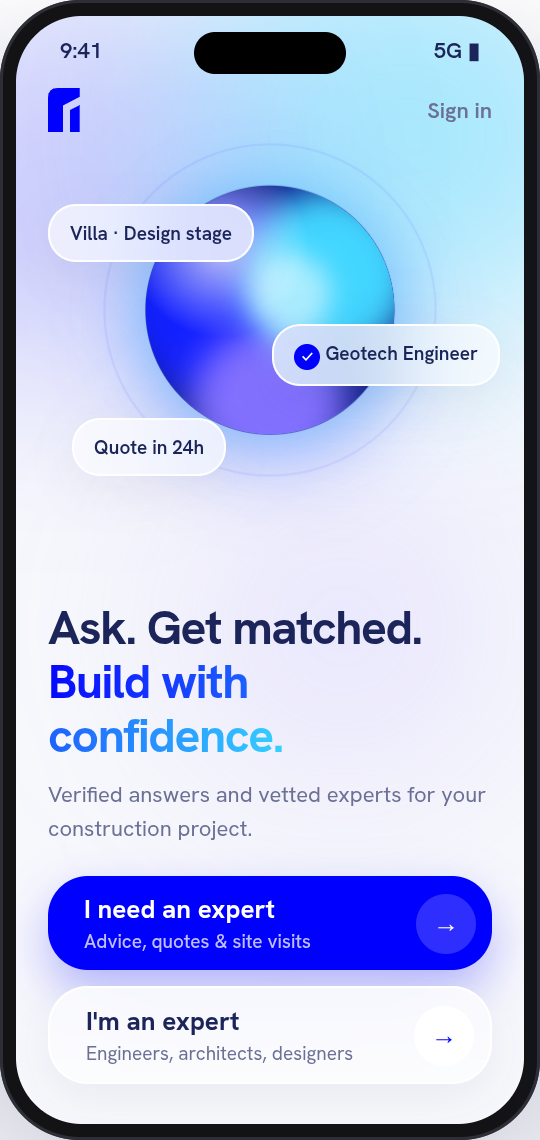
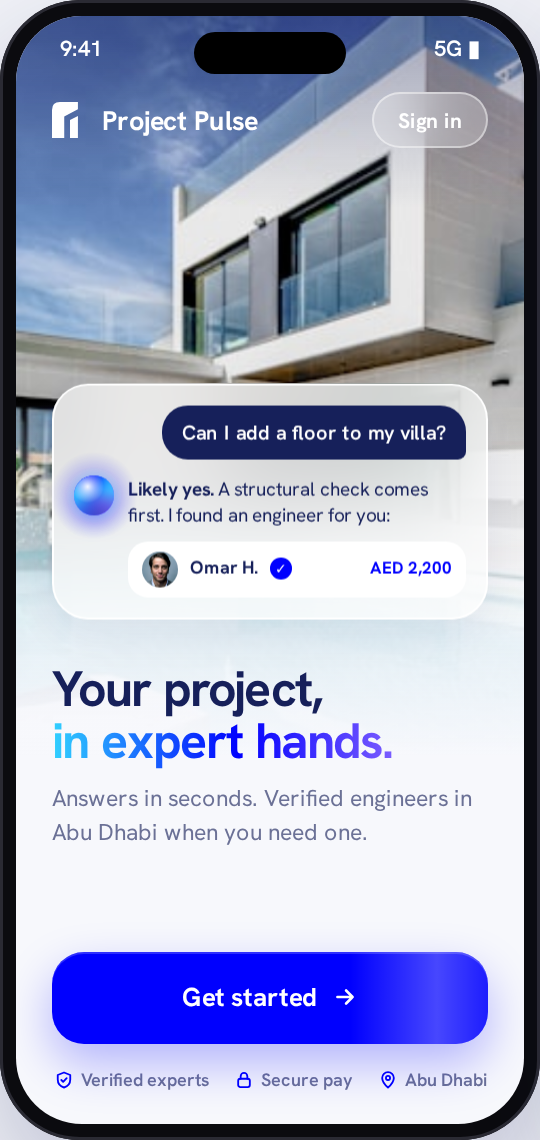
feat(mobile): Welcome A2 cinematic photo and the photo-card role screen (batch 5)
Ken Burns hero, frosted Pulse exchange (question, round orb, typed answer, engineer row), Get started with a
light sweep and trust ticks; Get started opens /onboarding/role (Client / Expert photo cards, lift + blue ring,
then sign up with the chosen role). Brand motion presets only. New 02-welcome-role and 02b-role references.

diff --git a/mobile/src/app/onboarding/welcome.tsx b/mobile/src/app/onboarding/welcome.tsx
@@ -1,53 +1,192 @@
-import { Pressable, View } from 'react-native';
+import { useEffect, useState } from 'react';
+import { Platform, Pressable, StyleSheet, View, useWindowDimensions } from 'react-native';
 import { router } from 'expo-router';
-import { Screen } from '@/ui/Screen';
+import { Image } from 'expo-image';
+import { BlurView } from 'expo-blur';
+import { LinearGradient } from 'expo-linear-gradient';
+import { StatusBar } from 'expo-status-bar';
+import { useSafeAreaInsets } from 'react-native-safe-area-context';
+import Animated, { Easing, cancelAnimation, useAnimatedStyle, useSharedValue, withDelay, withRepeat, withSequence, withTiming } from 'react-native-reanimated';
+import Svg, { Circle, Path, Rect } from 'react-native-svg';
 import { T } from '@/ui/T';
-import { Glass } from '@/ui/Glass';
 import { LogoMark } from '@/ui/LogoMark';
-import { Orb, Halo } from '@/fx/Orb';
+import { RoundOrb } from '@/fx/RoundOrb';
 import { GradientText } from '@/fx/GradientText';
+import { PHOTOS } from '@/theme/photos';
 import { s } from '@/theme/scale';
 import { shadow } from '@/theme/shadow';
 import { C } from '@/theme/tokens';
-import { useDemo } from '@/store/demo';
+import { EASE_IN_OUT, PRESS_SCALE, enterUp } from '@/theme/motion';
 
-const chip = (label: string, pos: object, ver = false) => (
-  <Glass r={14} style={[{ position: 'absolute', paddingVertical: s(7), paddingHorizontal: s(10), flexDirection: 'row', alignItems: 'center', gap: s(4) }, pos]}>
-    {ver && <View style={{ width: s(13), height: s(13), borderRadius: s(7), backgroundColor: C.blue, alignItems: 'center', justifyContent: 'center' }}><T size={8} c="#fff">✓</T></View>}
-    <T size={9.5} w={600}>{label}</T>
-  </Glass>
-);
+// Batch 5 A2 "Cinematic photo" (design/mockups/batch5-first-impression.html, A2 · Welcome).
+const ANSWER_BOLD = 'Likely yes.';
+const ANSWER = `${ANSWER_BOLD} A structural check comes first. I found an engineer for you:`;
+const TYPE_START = 600; // ms: the answer starts typing once the question bubble has landed
+const TYPE_MS = 14; // per character (~1.1s for the answer)
+const ROW_AT = TYPE_START + ANSWER.length * TYPE_MS + 100; // engineer row slides up after the answer
+const android = Platform.OS === 'android';
+
+/** Mockup `.up` / `.d1` / `.d2`: the headline, sub-line and button glide up in sequence (brand enterUp, 100ms stagger). */
+function Up({ d = 0, style, children }: { d?: number; style?: any; children: React.ReactNode }) {
+  return <Animated.View entering={enterUp(d, 100)} style={style}>{children}</Animated.View>;
+}
+
+/** ✦ "The photo slowly pushes in (a Ken Burns move over 14s)": mockup `.phh .im`, inset -6%, scale 1 -> 1.08 and
+ *  translate(-2%, 1%), ease-in-out, alternate. Fades into the app background through the `.phh:after` gradient. */
+function Hero() {
+  const { width } = useWindowDimensions();
+  const H = s(370);
+  const kb = useSharedValue(0);
+  useEffect(() => {
+    kb.value = withRepeat(withTiming(1, { duration: 14000, easing: EASE_IN_OUT }), -1, true);
+    return () => cancelAnimation(kb);
+  }, []);
+  const iw = width * 1.12, ih = H * 1.12;
+  const st = useAnimatedStyle(() => ({ transform: [{ translateX: -0.02 * iw * kb.value }, { translateY: 0.01 * ih * kb.value }, { scale: 1 + 0.08 * kb.value }] }));
+  return (
+    <View pointerEvents="none" style={{ position: 'absolute', left: 0, right: 0, top: 0, height: H, overflow: 'hidden' }}>
+      <Animated.View style={[{ position: 'absolute', left: -width * 0.06, top: -H * 0.06, width: iw, height: ih }, st]}>
+        <Image source={PHOTOS.port1} contentFit="cover" contentPosition={{ left: '58%', top: '50%' }} style={{ flex: 1 }} />
+      </Animated.View>
+      <LinearGradient colors={['rgba(22,32,90,0.35)', 'rgba(22,32,90,0)', 'rgba(247,248,252,0)', 'rgba(247,248,252,0.85)', C.bg]}
+        locations={[0, 0.26, 0.52, 0.8, 1]} style={StyleSheet.absoluteFill} />
+    </View>
+  );
+}
+
+/** Mockup `.pill-g`: a frosted white pill on the photo. */
+function GlassPill({ children, style }: { children: React.ReactNode; style?: any }) {
+  return (
+    <View style={[{ borderRadius: s(16), overflow: 'hidden', borderWidth: 1, borderColor: 'rgba(255,255,255,0.45)', backgroundColor: android ? 'rgba(255,255,255,0.3)' : 'rgba(255,255,255,0.22)' }, style]}>
+      {!android && <BlurView intensity={20} tint="light" style={StyleSheet.absoluteFill} />}
+      {children}
+    </View>
+  );
+}
+
+/** Mockup `.fl1`: a gentle 5px float on a 6s ease-in-out loop. */
+function useFloat() {
+  const f = useSharedValue(0);
+  useEffect(() => {
+    f.value = withRepeat(withSequence(withTiming(1, { duration: 3000, easing: Easing.inOut(Easing.ease) }), withTiming(0, { duration: 3000, easing: Easing.inOut(Easing.ease) })), -1);
+    return () => cancelAnimation(f);
+  }, []);
+  return useAnimatedStyle(() => ({ transform: [{ translateY: -s(5) * f.value }] }));
+}
+
+/** The frosted Pulse exchange (mockup `.qa.glass.fl1`). ✦ The question bubble appears, the orb spins, the answer types in,
+ *  then the engineer row slides up (brand enterUp). Everything has settled by ~2.3s. */
+function PulseCard() {
+  const float = useFloat();
+  const [n, setN] = useState(0);
+  useEffect(() => {
+    let id: ReturnType<typeof setInterval> | undefined;
+    const t = setTimeout(() => { id = setInterval(() => setN((x) => { if (x >= ANSWER.length) { clearInterval(id); return x; } return x + 1; }), TYPE_MS); }, TYPE_START);
+    return () => { clearTimeout(t); if (id) clearInterval(id); };
+  }, []);
+  const typed = ANSWER.slice(0, n);
+  const answer = (full: boolean) => {
+    const t = full ? ANSWER : typed;
+    return <><T size={9.5} w={700} lh={1.4}>{t.slice(0, ANSWER_BOLD.length)}</T>{t.slice(ANSWER_BOLD.length)}</>;
+  };
+  return (
+    <Animated.View style={[{ marginTop: s(118), borderRadius: s(18), ...shadow(C.navy, 0.07, s(12), s(6)) }, float]}>
+      <View style={{ borderRadius: s(18), overflow: 'hidden', borderWidth: 1, borderColor: 'rgba(255,255,255,0.95)', backgroundColor: android ? 'rgba(250,251,255,0.9)' : 'rgba(255,255,255,0.72)', padding: s(10) }}>
+        {!android && <BlurView intensity={30} tint="light" style={StyleSheet.absoluteFill} />}
+        <Animated.View entering={enterUp(1, 250)} style={[{ alignSelf: 'flex-end', maxWidth: '88%', backgroundColor: C.navy, paddingVertical: s(7), paddingHorizontal: s(10),
+          borderTopLeftRadius: s(13), borderTopRightRadius: s(13), borderBottomRightRadius: s(4), borderBottomLeftRadius: s(13) }]}>
+          <T size={10} w={600} c="#fff">Can I add a floor to my villa?</T>
+        </Animated.View>
+        <View style={{ flexDirection: 'row', gap: s(7), marginTop: s(8), alignItems: 'flex-start' }}>
+          <RoundOrb size={20} glow />
+          <View style={{ flex: 1 }}>
+            <View>
+              {/* the full answer lays out the card; the typed copy is drawn over it */}
+              <T size={9.5} lh={1.4} style={{ opacity: 0 }} accessibilityElementsHidden importantForAccessibility="no-hide-descendants">{answer(true)}</T>
+              <T size={9.5} lh={1.4} style={{ position: 'absolute', left: 0, top: 0, right: 0 }} accessibilityLabel={ANSWER}>{answer(false)}</T>
+            </View>
+            <Animated.View entering={enterUp(1, ROW_AT)} style={[{ flexDirection: 'row', alignItems: 'center', gap: s(6), marginTop: s(6), paddingVertical: s(5), paddingHorizontal: s(7), borderRadius: s(10), backgroundColor: '#fff' }]}>
+              <Image source={PHOTOS.omar} contentFit="cover" style={{ width: s(18), height: s(18), borderRadius: s(9) }} />
+              <T size={9} w={700}>Omar H.</T>
+              <View style={{ width: s(11), height: s(11), borderRadius: s(5.5), backgroundColor: C.blue, alignItems: 'center', justifyContent: 'center' }}>
+                <Svg width={s(7)} height={s(7)} viewBox="0 0 24 24"><Path d="M5 12.5l4.5 4.5L19 7.5" fill="none" stroke="#fff" strokeWidth={3.6} strokeLinecap="round" strokeLinejoin="round" /></Svg>
+              </View>
+              <T size={8.5} w={700} c={C.blue} style={{ marginLeft: 'auto' }}>AED 2,200</T>
+            </Animated.View>
+          </View>
+        </View>
+      </View>
+    </Animated.View>
+  );
+}
+
+/** Mockup `.btn2`: one Pulse Blue button with a soft light sweeping across it every 4s (`shimb`). */
+export function GetStarted({ onPress }: { onPress: () => void }) {
+  const [w, setW] = useState(0);
+  const sw = useSharedValue(0);
+  useEffect(() => {
+    sw.value = withDelay(800, withRepeat(withSequence(withTiming(1, { duration: 2000, easing: EASE_IN_OUT }), withTiming(1, { duration: 2000 }), withTiming(0, { duration: 0 })), -1));
+    return () => cancelAnimation(sw);
+  }, []);
+  const ss = useAnimatedStyle(() => ({ transform: [{ translateX: w * (-0.5 + 1.8 * sw.value) }] }));
+  return (
+    <Pressable onPress={onPress} accessibilityRole="button" onLayout={(e) => setW(e.nativeEvent.layout.width)}
+      style={({ pressed }) => [{ height: s(46), borderRadius: s(16), backgroundColor: C.blue, ...shadow(C.blue, 0.28, s(12), s(10)), transform: [{ scale: pressed ? PRESS_SCALE : 1 }] }]}>
+      <View style={{ flex: 1, borderRadius: s(16), overflow: 'hidden', flexDirection: 'row', alignItems: 'center', justifyContent: 'center', gap: s(8) }}>
+        <View style={{ position: 'absolute', left: 0, right: 0, top: 0, height: 1, backgroundColor: 'rgba(255,255,255,0.18)' }} />
+        <Animated.View pointerEvents="none" style={[{ position: 'absolute', left: 0, top: 0, bottom: 0, width: w * 0.4 }, ss]}>
+          <LinearGradient colors={['rgba(255,255,255,0)', 'rgba(255,255,255,0.28)', 'rgba(255,255,255,0)']} start={{ x: 0, y: 0 }} end={{ x: 1, y: 0 }} style={{ flex: 1 }} />
+        </Animated.View>
+        <T size={13} w={700} ls={-0.005} c="#fff">Get started</T>
+        <Svg width={s(13)} height={s(13)} viewBox="0 0 24 24"><Path d="M5 12h14M13 6l6 6-6 6" fill="none" stroke="#fff" strokeWidth={2.4} strokeLinecap="round" strokeLinejoin="round" /></Svg>
+      </View>
+    </Pressable>
+  );
+}
+
+const tick = { fill: 'none', stroke: C.blue, strokeWidth: 2.2, strokeLinecap: 'round' as const, strokeLinejoin: 'round' as const };
+const TICKS: [string, React.ReactNode][] = [
+  ['Verified experts', <><Path {...tick} d="M12 3l7.5 3v5.5c0 4.6-3.2 8.3-7.5 9.5-4.3-1.2-7.5-4.9-7.5-9.5V6z" /><Path {...tick} d="M8.8 12l2.2 2.2 4.2-4.4" /></>],
+  ['Secure pay', <><Rect {...tick} x={5} y={10.5} width={14} height={10} rx={2.5} /><Path {...tick} d="M8 10.5V7.5a4 4 0 0 1 8 0v3" /></>],
+  ['Abu Dhabi', <><Path {...tick} d="M12 21s-7-6.2-7-11.5a7 7 0 0 1 14 0C19 14.8 12 21 12 21z" /><Circle {...tick} cx={12} cy={9.5} r={2.5} /></>],
+];
 
 export default function Welcome() {
-  const go = (role: 'client' | 'expert') => { useDemo.getState().setRole(role); router.push('/onboarding/signup'); };
+  const insets = useSafeAreaInsets();
   return (
-    <Screen bg="aurora3" px={16}>
-      <View style={{ flexDirection: 'row', justifyContent: 'space-between', alignItems: 'center', paddingTop: s(6) }}>
-        <LogoMark size={22} />
-        <Pressable onPress={() => router.push('/onboarding/signup?mode=signin')}><T size={11} w={600} c={C.mute}>Sign in</T></Pressable>
+    <View style={{ flex: 1, backgroundColor: C.bg }}>
+      <StatusBar style="light" />
+      <Hero />
+      <View style={{ flex: 1, paddingTop: Math.max(insets.top, s(30)), paddingHorizontal: s(18) }}>
+        <View style={{ flexDirection: 'row', alignItems: 'center', justifyContent: 'space-between', paddingTop: s(8) }}>
+          <View style={{ flexDirection: 'row', alignItems: 'center', gap: s(7) }}>
+            <LogoMark size={18} color="#fff" />
+            <T size={13.5} w={700} ls={-0.02} c="#fff">Project Pulse</T>
+          </View>
+          <Pressable onPress={() => router.push('/onboarding/signup?mode=signin')} hitSlop={8}>
+            <GlassPill style={{ paddingVertical: s(6), paddingHorizontal: s(12) }}><T size={10.5} w={700} c="#fff">Sign in</T></GlassPill>
+          </Pressable>
+        </View>
+        <PulseCard />
+        <Up style={{ marginTop: s(22) }}>
+          <T size={25} w={700} ls={-0.035} lh={1.05}>Your project,</T>
+          <GradientText size={25} w={700} ls={-0.035} lh={1.05}>in expert hands.</GradientText>
+        </Up>
+        <Up d={1} style={{ marginTop: s(7) }}>
+          <T size={11.5} c={C.mute} lh={1.45}>Answers in seconds. Verified engineers in Abu Dhabi when you need one.</T>
+        </Up>
+        <Up d={2} style={{ marginTop: 'auto', marginBottom: Math.max(s(16), insets.bottom) }}>
+          <GetStarted onPress={() => router.push('/onboarding/role')} />
+          <View style={{ flexDirection: 'row', justifyContent: 'center', gap: s(12), marginTop: s(12) }}>
+            {TICKS.map(([label, icon]) => (
+              <View key={label} style={{ flexDirection: 'row', alignItems: 'center', gap: s(4) }}>
+                <Svg width={s(10)} height={s(10)} viewBox="0 0 24 24">{icon}</Svg>
+                <T size={9} w={600} c={C.mute}>{label}</T>
+              </View>
+            ))}
+          </View>
+        </Up>
       </View>
-      <View style={{ alignItems: 'center', marginTop: s(30), height: s(118) }}>
-        <View><Halo size={118} /><Orb size={118} variant="sphere" /></View>
-        {chip('Villa · Design stage', { left: 0, top: s(6) })}
-        {chip('Geotech Engineer', { right: -s(4), top: s(66) }, true)}
-        {chip('Quote in 24h', { left: s(12), bottom: -s(24) })}
-      </View>
-      <View style={{ marginTop: 'auto', paddingBottom: s(20) }}>
-        <T size={24} w={700} ls={-0.03} lh={1.12}>Ask. Get matched.</T>
-        <GradientText size={24} w={700} ls={-0.03} lh={1.12} colors={[C.blue, C.cyan]}>Build with confidence.</GradientText>
-        <T size={11} c={C.mute} lh={1.5} style={{ marginTop: s(7) }}>Verified answers and vetted experts for your construction project.</T>
-        <Pressable onPress={() => go('client')} style={{ marginTop: s(16), backgroundColor: C.blue, borderRadius: s(20), paddingVertical: s(8), paddingLeft: s(18), paddingRight: s(8),
-          flexDirection: 'row', alignItems: 'center', justifyContent: 'space-between', ...shadow(C.blue, 0.28, s(12), s(10)) }}>
-          <View><T size={13} w={700} c="#fff">I need an expert</T><T size={9.5} w={500} c="rgba(255,255,255,0.75)" style={{ marginTop: 1 }}>Advice, quotes & site visits</T></View>
-          <View style={{ width: s(30), height: s(30), borderRadius: s(15), backgroundColor: 'rgba(255,255,255,0.18)', alignItems: 'center', justifyContent: 'center' }}><T size={13} c="#fff">→</T></View>
-        </Pressable>
-        <Pressable onPress={() => go('expert')}>
-          <Glass r={20} style={{ marginTop: s(8), paddingVertical: s(8), paddingLeft: s(18), paddingRight: s(8), flexDirection: 'row', alignItems: 'center', justifyContent: 'space-between' }}>
-            <View><T size={13} w={700}>I'm an expert</T><T size={9.5} c={C.mute} style={{ marginTop: 1 }}>Engineers, architects, designers</T></View>
-            <View style={{ width: s(30), height: s(30), borderRadius: s(15), backgroundColor: '#fff', alignItems: 'center', justifyContent: 'center' }}><T size={13} c={C.blue}>→</T></View>
-          </Glass>
-        </Pressable>
-      </View>
-    </Screen>
+    </View>
   );
 }

diff --git a/mobile/src/app/onboarding/role.tsx b/mobile/src/app/onboarding/role.tsx
@@ -1,0 +1,106 @@
+import { useEffect, useRef, useState } from 'react';
+import { Platform, Pressable, StyleSheet, View } from 'react-native';
+import { router, useLocalSearchParams } from 'expo-router';
+import { Image } from 'expo-image';
+import { BlurView } from 'expo-blur';
+import { LinearGradient } from 'expo-linear-gradient';
+import * as Haptics from 'expo-haptics';
+import Animated, { useAnimatedStyle, useSharedValue, withSpring, withTiming } from 'react-native-reanimated';
+import Svg, { Path } from 'react-native-svg';
+import { Screen } from '@/ui/Screen';
+import { Glass } from '@/ui/Glass';
+import { T } from '@/ui/T';
+import { PHOTOS, PhotoKey } from '@/theme/photos';
+import { s } from '@/theme/scale';
+import { shadow } from '@/theme/shadow';
+import { C } from '@/theme/tokens';
+import { DUR, EASE_OUT, SPRING, enterUp } from '@/theme/motion';
+import { useDemo } from '@/store/demo';
+
+// Batch 5 A2 · after Get started (role): two large photo cards (mockup `.pcard`).
+type Role = 'client' | 'expert';
+const CARDS: { role: Role; tag: string; title: string; sub: string; photo: PhotoKey; h: number }[] = [
+  { role: 'client', tag: 'Client', title: "I'm building", sub: 'Villa, shop, tower or renovation', photo: 'port2', h: 166 },
+  { role: 'expert', tag: 'Expert', title: "I'm an engineer", sub: 'Consultants, architects, designers', photo: 'drawings', h: 150 },
+];
+const android = Platform.OS === 'android';
+const LEAVE_MS = 480;
+
+const Arrow = ({ color }: { color: string }) => (
+  <Svg width={s(12)} height={s(12)} viewBox="0 0 24 24"><Path d="M5 12h14M13 6l6 6-6 6" fill="none" stroke={color} strokeWidth={2.4} strokeLinecap="round" strokeLinejoin="round" /></Svg>
+);
+
+function Card({ c, sel, lifted, faded, onPress }: { c: (typeof CARDS)[number]; sel: boolean; lifted: boolean; faded: boolean; onPress: () => void }) {
+  const lift = useSharedValue(0);
+  const fade = useSharedValue(0);
+  useEffect(() => { lift.value = withSpring(lifted ? 1 : 0, SPRING); }, [lifted]);
+  useEffect(() => { fade.value = withTiming(faded ? 1 : 0, { duration: DUR.base, easing: EASE_OUT }); }, [faded]);
+  const st = useAnimatedStyle(() => ({ opacity: 1 - 0.55 * fade.value, transform: [{ translateY: -s(4) * lift.value }, { scale: 1 + 0.02 * lift.value }] }));
+  return (
+    <Animated.View style={[{ marginTop: s(12) }, st]}>
+      <Pressable onPress={onPress} accessibilityRole="button" accessibilityState={{ selected: sel }}
+        style={[{ height: s(c.h), borderRadius: s(22) }, sel ? shadow(C.blue, 0.25, s(15), s(14)) : null]}>
+        <View style={{ flex: 1, borderRadius: s(22), overflow: 'hidden', backgroundColor: C.navy }}>
+          <Image source={PHOTOS[c.photo]} contentFit="cover" style={StyleSheet.absoluteFill} />
+          <LinearGradient colors={['rgba(22,32,90,0)', 'rgba(22,32,90,0)', 'rgba(22,32,90,0.82)']} locations={[0, 0.3, 1]} style={StyleSheet.absoluteFill} />
+          {/* .tg.pill-g */}
+          <View style={{ position: 'absolute', left: s(12), top: s(12), borderRadius: s(16), overflow: 'hidden', borderWidth: 1, borderColor: 'rgba(255,255,255,0.45)',
+            backgroundColor: android ? 'rgba(255,255,255,0.3)' : 'rgba(255,255,255,0.22)', paddingVertical: s(4), paddingHorizontal: s(9) }}>
+            {!android && <BlurView intensity={20} tint="light" style={StyleSheet.absoluteFill} />}
+            <T size={9} w={700} c="#fff">{c.tag}</T>
+          </View>
+          <View style={{ position: 'absolute', left: s(14), right: s(14), bottom: s(12), flexDirection: 'row', alignItems: 'flex-end', gap: s(10) }}>
+            <View style={{ flex: 1 }}>
+              <T size={15} w={700} ls={-0.02} c="#fff">{c.title}</T>
+              {/* mockup: the sub-line is an inline span in a 16px line box, so it sits lower under the title */}
+              <T size={9.5} c="#fff" style={{ opacity: 0.85, marginTop: s(6.5), marginBottom: s(2) }}>{c.sub}</T>
+            </View>
+            {/* the round arrow is a span in the mockup, so it takes `.ct span { opacity:.85 }` too */}
+            <View style={{ width: s(32), height: s(32), borderRadius: s(16), backgroundColor: sel ? C.blue : '#fff', opacity: 0.85, alignItems: 'center', justifyContent: 'center' }}>
+              <Arrow color={sel ? '#fff' : C.navy} />
+            </View>
+          </View>
+        </View>
+        {/* .pcard.sel: box-shadow 0 0 0 2px Pulse Blue, a ring outside the card */}
+        {sel && <View pointerEvents="none" style={{ position: 'absolute', left: -2, top: -2, right: -2, bottom: -2, borderRadius: s(22) + 2, borderWidth: 2, borderColor: C.blue }} />}
+      </Pressable>
+    </Animated.View>
+  );
+}
+
+export default function RoleScreen() {
+  const { stay } = useLocalSearchParams<{ stay?: string }>();
+  const [sel, setSel] = useState<Role>('client');
+  const [chosen, setChosen] = useState<Role | null>(null);
+  const t = useRef<ReturnType<typeof setTimeout> | undefined>(undefined);
+  useEffect(() => () => { if (t.current) clearTimeout(t.current); }, []);
+  // ✦ the tapped card lifts (critically damped SPRING, no overshoot) with a blue ring (haptic), the other one steps back, then it moves on to sign up
+  const choose = (role: Role) => {
+    if (chosen) return;
+    setSel(role); setChosen(role);
+    Haptics.impactAsync(Haptics.ImpactFeedbackStyle.Light);
+    useDemo.getState().setRole(role);
+    if (stay) return;
+    t.current = setTimeout(() => router.push('/onboarding/signup'), LEAVE_MS);
+  };
+  return (
+    <Screen bg="aurora3" px={16}>
+      <View style={{ flexDirection: 'row', alignItems: 'center', justifyContent: 'space-between', paddingTop: s(8) }}>
+        <Pressable onPress={() => (router.canGoBack?.() ? router.back() : router.replace('/onboarding/welcome'))} hitSlop={10} accessibilityLabel="Back">
+          <Glass r={16} style={{ width: s(32), height: s(32), alignItems: 'center', justifyContent: 'center' }}>
+            {/* wrapped in a View: on web a bare <svg> paints under the positioned BlurView */}
+            <View><Svg width={s(13)} height={s(13)} viewBox="0 0 24 24"><Path d="M15 5l-7 7 7 7" fill="none" stroke={C.navy} strokeWidth={2.4} strokeLinecap="round" strokeLinejoin="round" /></Svg></View>
+          </Glass>
+        </Pressable>
+        <Pressable onPress={() => router.push('/onboarding/signup?mode=signin')} hitSlop={8}><T size={11} w={600} c={C.mute}>Sign in</T></Pressable>
+      </View>
+      <Animated.View entering={enterUp(0)}><T size={24} w={700} ls={-0.035} lh={1.05} style={{ marginTop: s(12) }}>{'What brings you\nto Pulse?'}</T></Animated.View>
+      {/* ✦ the cards rise in turn */}
+      {CARDS.map((c, i) => (
+        <Animated.View key={c.role} entering={enterUp(i + 1, 90)}>
+          <Card c={c} sel={sel === c.role} lifted={chosen === c.role} faded={chosen != null && chosen !== c.role} onPress={() => choose(c.role)} />
+        </Animated.View>
+      ))}
+    </Screen>
+  );
+}

diff --git a/mobile/__tests__/onboarding.test.tsx b/mobile/__tests__/onboarding.test.tsx
@@ -1,18 +1,34 @@
 import { render, screen, fireEvent, act } from '@testing-library/react-native';
 import { router } from 'expo-router';
 import Welcome from '@/app/onboarding/welcome';
+import Role from '@/app/onboarding/role';
 import Building from '@/app/onboarding/building';
 import Stage from '@/app/onboarding/stage';
 import { useDemo } from '@/store/demo';
 
 jest.mock('expo-router', () => ({ router: { push: jest.fn(), replace: jest.fn(), back: jest.fn() }, useLocalSearchParams: () => ({}) }));
+jest.mock('@/fx/RoundOrb', () => { const { View: mockView } = require('react-native'); const mockOrb = () => require('react').createElement(mockView, { testID: 'RoundOrb' }); return { __esModule: true, RoundOrb: mockOrb, default: mockOrb }; });
 beforeEach(() => { useDemo.getState().resetDemo(); jest.clearAllMocks(); });
 
-test('Welcome: the role buttons set the role and go to sign up', async () => {
+test('Welcome (A2): Get started goes to the role screen; Sign in goes to sign in', async () => {
   await render(<Welcome />);
-  expect(screen.getByText('Ask. Get matched.')).toBeTruthy();
-  await fireEvent.press(screen.getByText('I need an expert'));
-  expect(useDemo.getState().role).toBe('client');
+  for (const t of ['Project Pulse', 'Can I add a floor to my villa?', 'Omar H.', 'AED 2,200', 'Your project,', 'in expert hands.',
+    'Answers in seconds. Verified engineers in Abu Dhabi when you need one.', 'Verified experts', 'Secure pay', 'Abu Dhabi']) expect(screen.getByText(t)).toBeTruthy();
+  await fireEvent.press(screen.getByText('Get started'));
+  expect(router.push).toHaveBeenCalledWith('/onboarding/role');
+  await fireEvent.press(screen.getByText('Sign in'));
+  expect(router.push).toHaveBeenCalledWith('/onboarding/signup?mode=signin');
+});
+
+test.each([["I'm building", 'client'], ["I'm an engineer", 'expert']] as const)('Role: tapping "%s" sets the %s role and moves on to sign up', async (card, role) => {
+  jest.useFakeTimers();
+  await render(<Role />);
+  expect(screen.getByText('What brings you\nto Pulse?')).toBeTruthy();
+  await fireEvent.press(screen.getByText(card));
+  expect(useDemo.getState().role).toBe(role);
+  expect(router.push).not.toHaveBeenCalled(); // the card lifts first
+  await act(async () => { jest.advanceTimersByTime(600); });
+  jest.useRealTimers();
   expect(router.push).toHaveBeenCalledWith('/onboarding/signup');
 });
 

diff --git a/mobile/src/nav/gallery.ts b/mobile/src/nav/gallery.ts
@@ -1,6 +1,7 @@
 // ids = file names in design/approved/ (a plain array literal: tools/fidelity/capture.mjs reads this file)
 export const GALLERY = [
-  { id: '01-splash', label: 'Splash', href: '/?stay=1' }, { id: '02-welcome-role', label: 'Welcome + role', href: '/onboarding/welcome' },
+  { id: '01-splash', label: 'Splash', href: '/?stay=1' }, { id: '02-welcome-role', label: 'Welcome', href: '/onboarding/welcome' },
+  { id: '02b-role', label: 'Role', href: '/onboarding/role' },
   { id: '03-sign-up', label: 'Sign up', href: '/onboarding/signup' }, { id: '04-building-type', label: 'What are you building?', href: '/onboarding/building' },
   { id: '04b-building-chosen', label: 'Building chosen', href: '/onboarding/chosen?stay=1' }, { id: '05-stage', label: 'Stage', href: '/onboarding/stage?stage=5' },
   { id: '06-building-your-project', label: 'Building your project', href: '/onboarding/creating?stay=1' },
